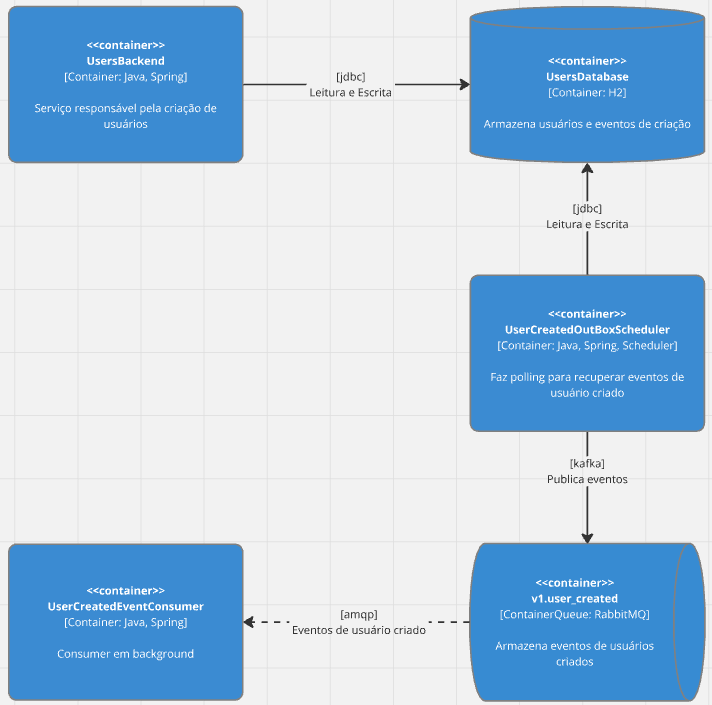
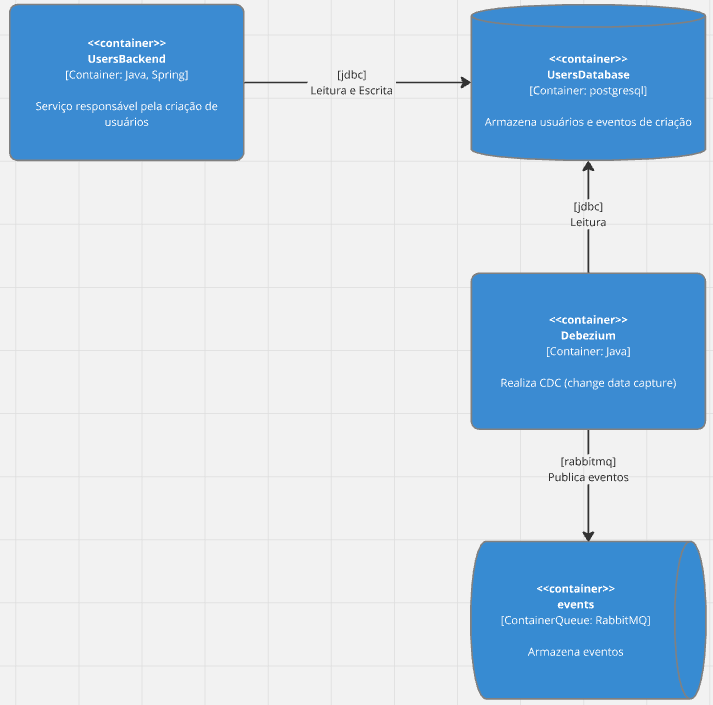
feature: usa debezium para captura e enviar eventos para uma fila no rabbitmq

diff --git a/src/main/java/br/com/pedro/core/usecases/create_user/CreateUserUseCase.java b/src/main/java/br/com/pedro/core/usecases/create_user/CreateUserUseCase.java
@@ -8,6 +8,7 @@ import org.slf4j.Logger;
 import org.slf4j.LoggerFactory;
 import org.springframework.beans.factory.annotation.Autowired;
 import org.springframework.stereotype.Service;
+import org.springframework.transaction.annotation.Isolation;
 import org.springframework.transaction.annotation.Transactional;
 
 import br.com.pedro.core.domain.*;
@@ -32,7 +33,7 @@ public class CreateUserUseCase {
         this.logger = LoggerFactory.getLogger(CreateUserUseCase.class);
     }
 
-    @Transactional(readOnly = false)
+    @Transactional(readOnly = false, isolation = Isolation.SERIALIZABLE)
     public Either<UseCaseError, Void> execute(CreateUserUseCaseInput input) {
         this.logger.info("Creating user with name: {} and email: {}",
                 input.name(), input.email());

diff --git a/src/main/java/br/com/pedro/TransactionOutboxApplication.java b/src/main/java/br/com/pedro/TransactionOutboxApplication.java
@@ -2,10 +2,8 @@ package br.com.pedro;
 
 import org.springframework.boot.SpringApplication;
 import org.springframework.boot.autoconfigure.SpringBootApplication;
-import org.springframework.scheduling.annotation.EnableScheduling;
 
 @SpringBootApplication
-@EnableScheduling
 public class TransactionOutboxApplication {
 
 	public static void main(String[] args) {
